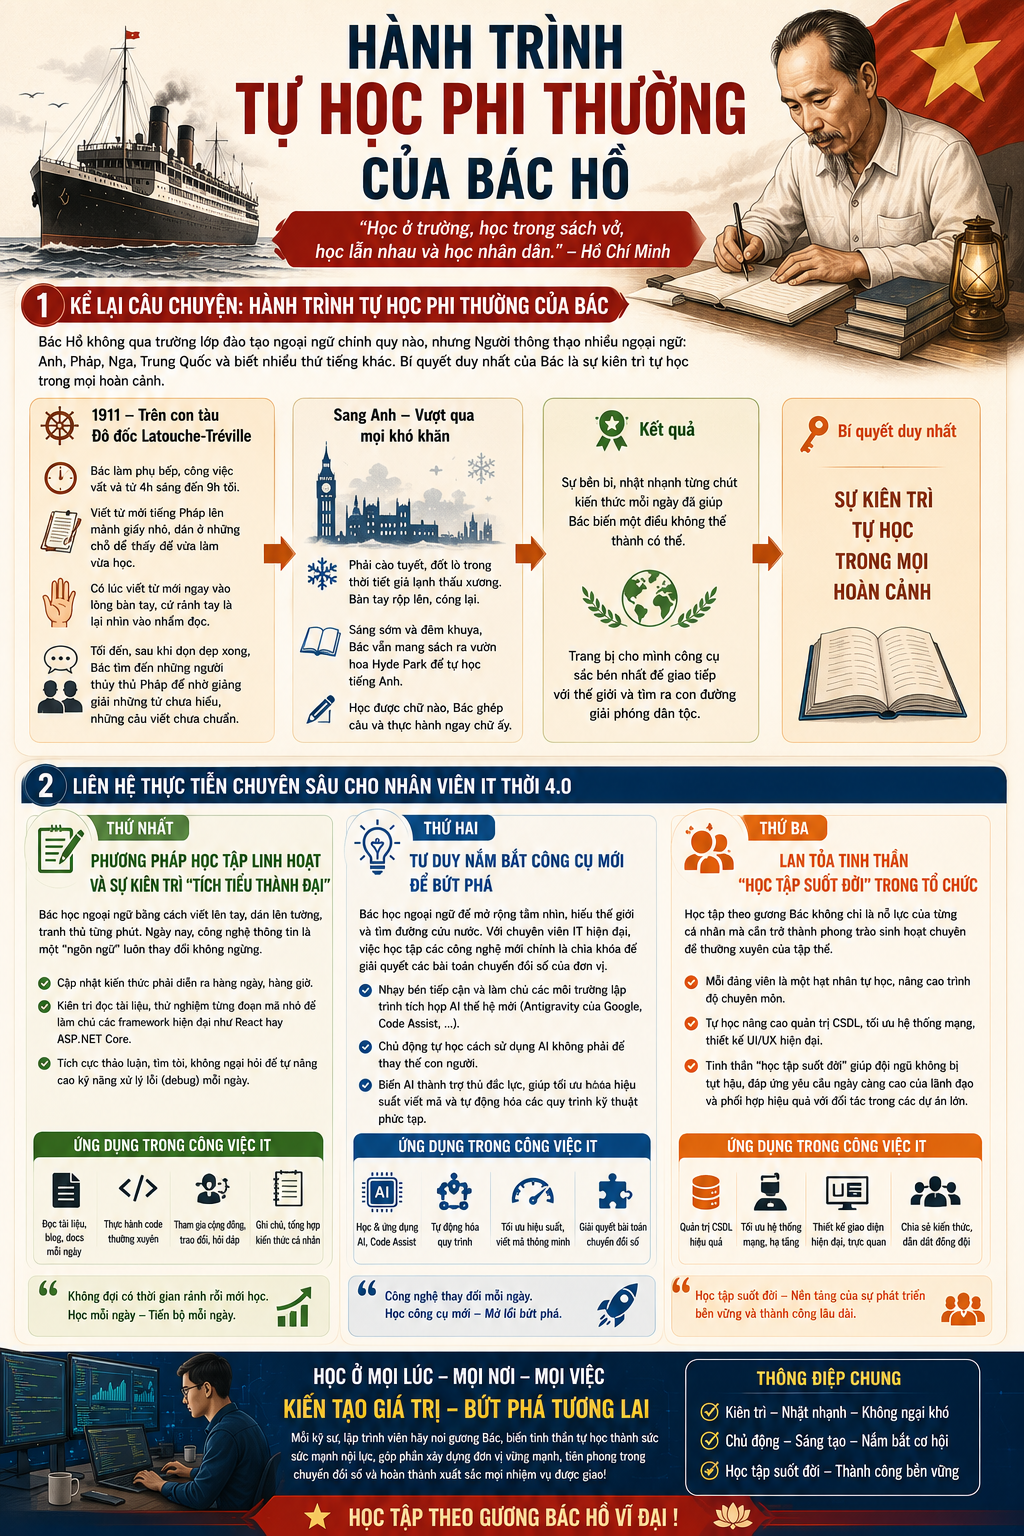
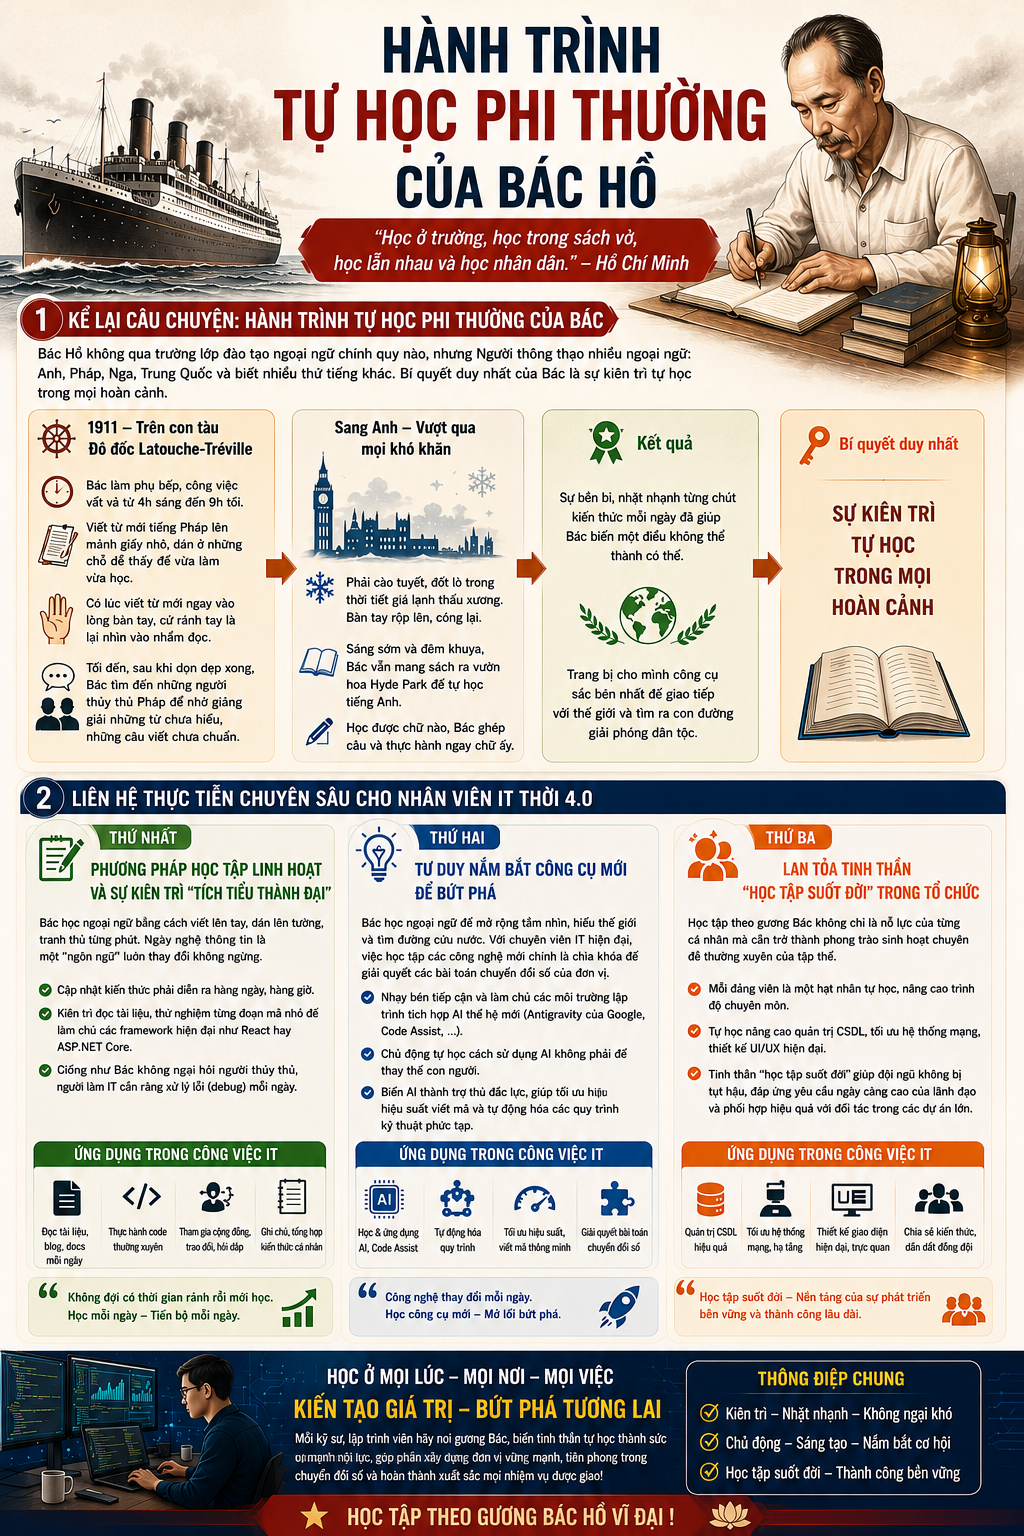
Update loader flow and content styling

diff --git a/style.css b/style.css
@@ -67,11 +67,75 @@ body:not(.is-loading) .loader {
   animation: spin 0.85s linear infinite;
 }
 
-.loader p {
+.loader-copy {
+  max-width: 560px;
+  text-align: center;
+  padding: 0 20px;
+}
+
+.loader-kicker {
   font-size: 14px;
-  letter-spacing: 0.3px;
+  letter-spacing: 0.16em;
+  text-transform: uppercase;
+  color: #f6d7a5;
+}
+
+.loader-text {
+  margin-top: 10px;
+  font-size: 16px;
+  line-height: 1.7;
   color: #fff3dd;
   opacity: 0.92;
+  text-align: justify;
+  text-justify: inter-word;
+}
+
+.loader-btn {
+  margin-top: 18px;
+  padding: 12px 24px;
+  min-width: 220px;
+  font-size: 16px;
+  font-family: inherit;
+  border-radius: 999px;
+  border: 1px solid rgba(246, 215, 165, 0.6);
+  color: #fff7eb;
+  background: linear-gradient(90deg, #8b1e1e, #b6422e);
+  cursor: pointer;
+  opacity: 0;
+  transform: translateY(8px);
+  pointer-events: none;
+  transition: opacity 0.25s ease, transform 0.25s ease, box-shadow 0.2s ease;
+}
+
+.loader-btn:disabled {
+  cursor: default;
+}
+
+.loader-status {
+  margin-top: 10px;
+  font-size: 14px;
+  color: rgba(255, 243, 221, 0.8);
+  text-align: center;
+  text-justify: inter-word;
+}
+
+.loader.is-ready .spinner {
+  animation-duration: 1.4s;
+  opacity: 0.65;
+}
+
+.loader.is-ready .loader-btn {
+  opacity: 1;
+  transform: translateY(0);
+  pointer-events: auto;
+}
+
+.loader.is-ready .loader-btn:not(:disabled):hover {
+  box-shadow: 0 12px 24px rgba(182, 66, 46, 0.28);
+}
+
+.loader.is-ready .loader-status {
+  color: #f6d7a5;
 }
 
 .site-header {

diff --git a/script.js b/script.js
@@ -2,15 +2,19 @@
 const audio = document.getElementById("audio");
 const toggleBtn = document.getElementById("toggleAudio");
 const playBtn = document.getElementById("playBtn");
+const loader = document.getElementById("loader");
+const startStoryBtn = document.getElementById("startStoryBtn");
 const lightbox = document.getElementById("imageLightbox");
 const lightboxImage = document.getElementById("lightboxImage");
 const closeLightboxBtn = document.getElementById("closeLightbox");
 const lightboxStage = document.getElementById("lightboxStage");
+const loaderStatus = document.querySelector(".loader-status");
 
 let isPlaying = false;
 let zoomScale = 1;
 let baseImageWidth = 0;
 let baseImageHeight = 0;
+let isLoaderReady = false;
 
 const MIN_ZOOM = 1;
 const MAX_ZOOM = 4;
@@ -109,21 +113,30 @@ function waitForAudio() {
 
 function showPageWhenReady() {
   Promise.all([waitForImages(), waitForAudio()]).finally(() => {
-    document.body.classList.remove("is-loading");
-    reveal();
-
-    // Tu dong phat audio ngay khi preload xong.
-    audio.play()
-      .then(() => {
-        isPlaying = true;
-        toggleBtn.innerText = "⏸";
-      })
-      .catch(() => {
-        // Trinh duyet co the chan autoplay; giu nguyen nut de user bam tay.
-        isPlaying = false;
-        toggleBtn.innerText = "▶";
-      });
+    isLoaderReady = true;
+    loader.classList.add("is-ready");
+    startStoryBtn.disabled = false;
+    loaderStatus.innerText = "Mọi thứ đã sẵn sàng. Bấm để bắt đầu câu chuyện.";
   });
+}
+
+function beginStory() {
+  if (!isLoaderReady) {
+    return;
+  }
+
+  document.body.classList.remove("is-loading");
+  reveal();
+
+  audio.play()
+    .then(() => {
+      isPlaying = true;
+      toggleBtn.innerText = "⏸";
+    })
+    .catch(() => {
+      isPlaying = false;
+      toggleBtn.innerText = "▶";
+    });
 }
 
 function toggleAudio() {
@@ -151,6 +164,7 @@ audio.addEventListener("pause", () => {
 
 toggleBtn.addEventListener("click", toggleAudio);
 playBtn.addEventListener("click", toggleAudio);
+startStoryBtn.addEventListener("click", beginStory);
 showPageWhenReady();
 
 function openLightbox(src, alt) {

diff --git a/index.html b/index.html
@@ -12,17 +12,25 @@
 <body class="is-loading">
 
     <div id="loader" class="loader" role="status" aria-live="polite" aria-label="Đang tải nội dung">
-        <div class="spinner"></div>
-        <p>Đang tải nội dung...</p>
+        <!-- <div class="spinner"></div> -->
+        <div class="loader-copy">
+            <p class="loader-kicker">Hành trình tự học</p>
+            <p class="loader-text">Mỗi khi nhắc về hành trình vĩ đại tìm đường cứu nước của Bác Hồ, 
+                người ta thường nhớ đến những dấu mốc lịch sử lớn lao, nhưng chính những câu chuyện như việc Người tự học 
+                trên con tàu lênh đênh giữa đại dương lại là ngọn đuốc sáng truyền cảm hứng cho chúng ta. 
+                </p>
+            <p class="loader-text">Đó không chỉ là sự kiên trì vượt qua nghịch cảnh, 
+                mà còn là bài học sâu sắc về tinh thần tự học mọi lúc mọi nơi , bất kỳ ai trong thời đại số cũng cần nhìn lại để soi mình.</p>
+            <button id="startStoryBtn" class="loader-btn" type="button" disabled>Bắt đầu câu chuyện</button>
+            <p class="loader-status">Đang chuẩn bị hình ảnh và âm thanh...</p>
+        </div>
     </div>
 
     <div id="pageContent" class="page-content">
         <header class="site-header">
-            <!-- <div class="crest" aria-hidden="true">✶</div>
-            <p class="subtitle">Tinh than Viet Nam</p> -->
             <h1 class="title fade-up">HÀNH TRÌNH TỰ HỌC</h1>
             <p class="tagline fade-up delay">Kiên tâm trong học tập, giản dị trong đời sống, bền bỉ trước thử thách</p>
-            <button id="playBtn" class="primary-btn fade-up delay2">▶ Nghe câu chuyện</button>
+            <button id="playBtn" class="primary-btn fade-up delay2">Nghe câu chuyện</button>
         </header>
 
         <main>